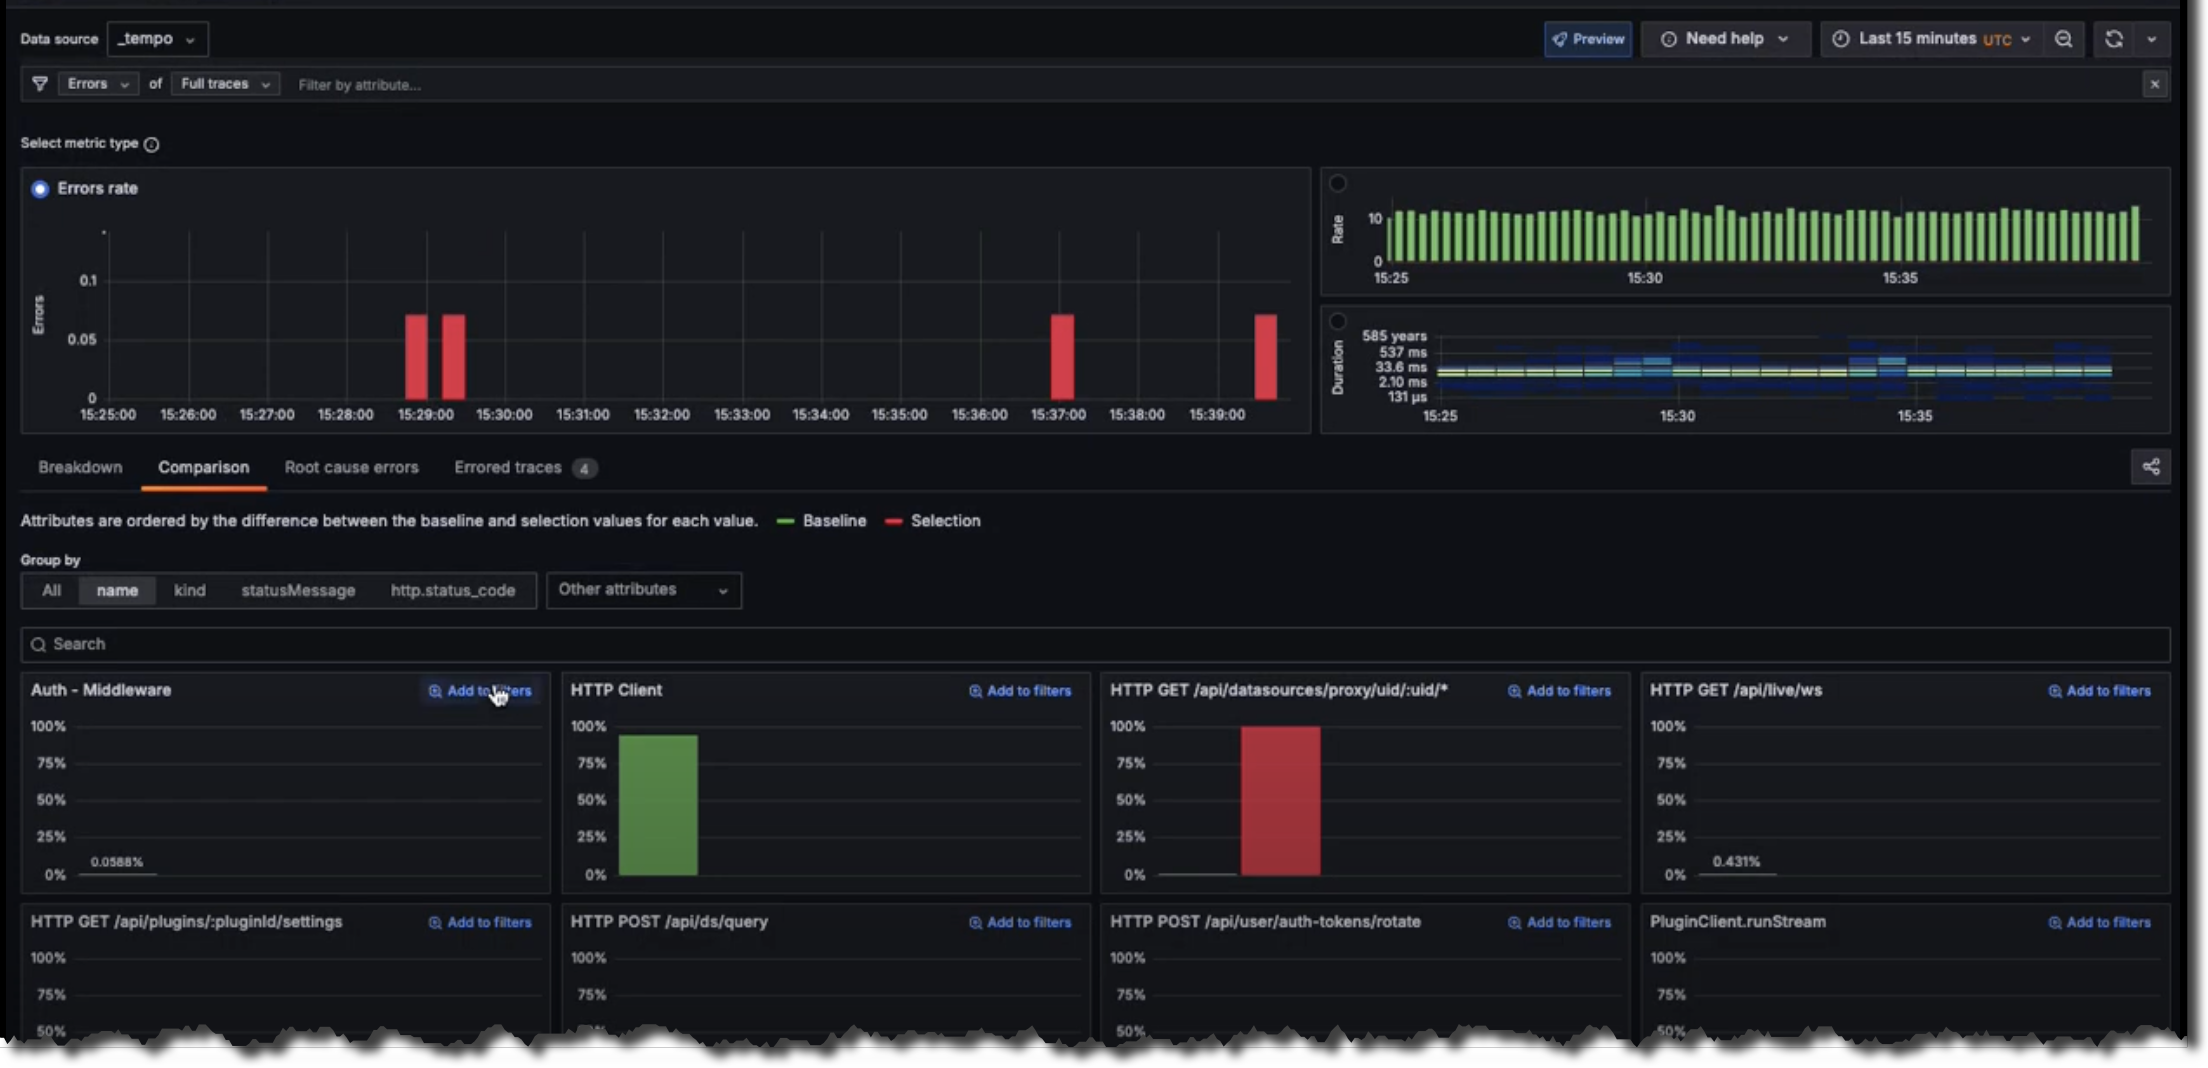
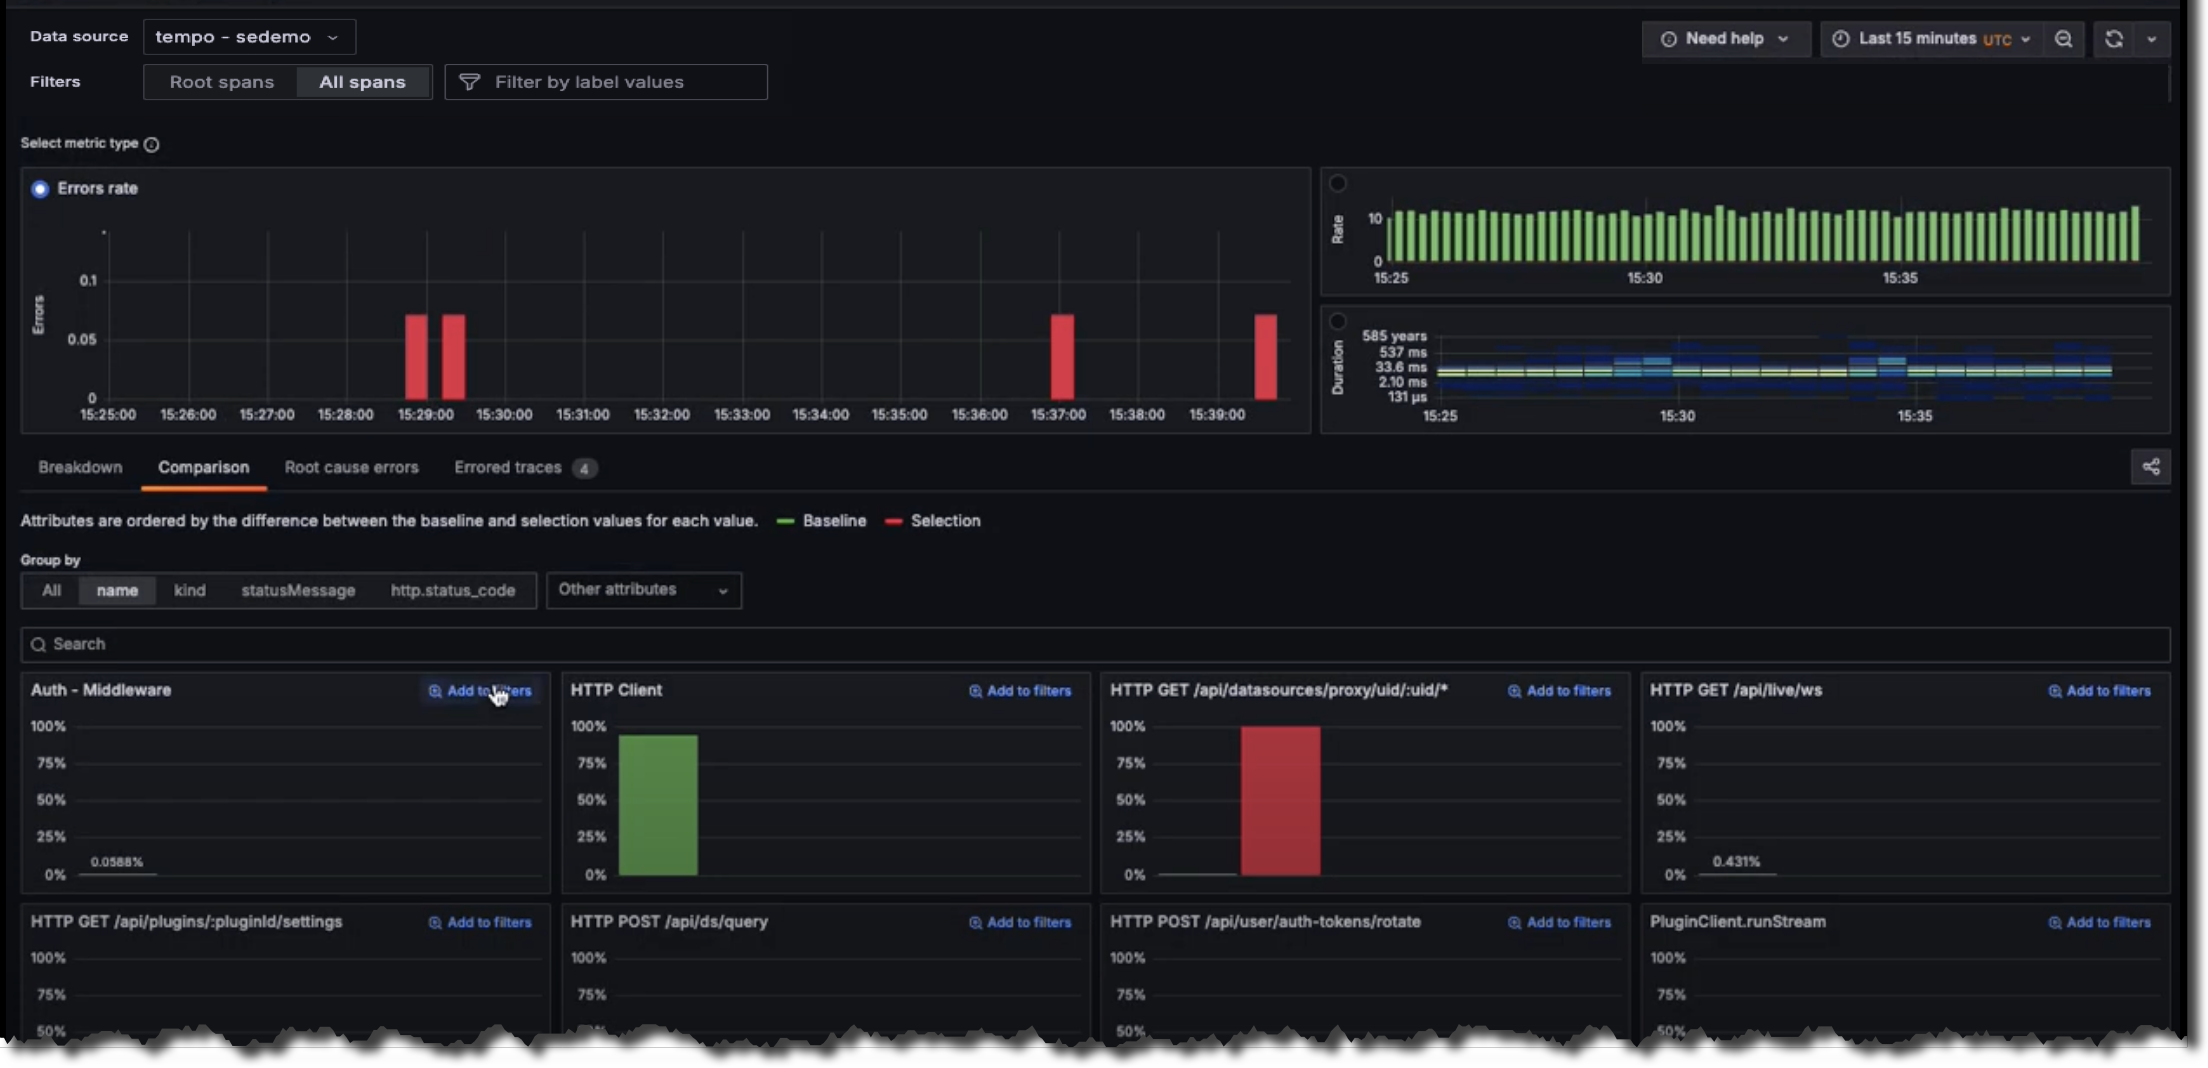
Update screenshots and UI elements

Changed region(s): [[0.0, 0.0309, 0.3125, 0.0927], [0.6875, 0.0, 0.75, 0.0618], [0.9688, 0.0618, 1.0, 0.0927]]

diff --git a/docs/sources/ui-reference/_index.md b/docs/sources/ui-reference/_index.md
@@ -1,0 +1,41 @@
+---
+description: Learn about the user interface for Traces Drilldown.
+canonical: https://grafana.com/docs/grafana/latest/explore/simplified-exploration/traces/investigate/
+keywords:
+  - Traces Drilldown
+  - UI reference
+title: Traces Drilldown UI reference
+menuTitle: UI reference
+weight: 600
+---
+
+# Traces Drilldown UI reference
+
+Grafana Traces Drilldown provides an easy to use interface that helps focus your tracing data exploration.
+Some of the screen sections are context sensitive and change depending upon the metric you've chosen.
+Refer to [Analyze tracing data](analyze-tracing-data) for more information.
+
+![Numbered sections of the Traces Drilldown app](/media/docs/explore-traces/traces-drilldown-screen-ui.png)
+
+1. **Data source selection**:
+   At the top left, you select the data source for your traces. In this example, the data source is set to `grafanacloud-traces`.
+
+1. **Filters**:
+   The filter bar helps you refine the data displayed.
+   You can select the type of trace data, either **Root spans** or **All spans**. You can also add specific label values to narrow the scope of your investigation.
+
+1. **Select metric type**:
+   Choose between **Rate**, **Errors**, or **Duration** metrics. In this example, the **Span rate** metric is selected, showing the number of spans per second.
+   - The **Span rate** graph (top left) shows the rate of spans over time.
+   - The **Errors** graph (top right) displays the error rate over time, with red bars indicating errors.
+   - The **Duration** heatmap (bottom right) visualizes the distribution of span durations and can help identify latency patterns.
+
+1. **Investigation-focused tabs**:
+   Each metric type has its own set of tabs that help you explore your tracing data. These tabs differ depending on the metric type you've selected.
+   For example, when you are using Span rate, then the Investigation type tabs show **Breakdown**, **Service structure**, **Comparison**, and **Traces**. The **Breakdown** tab organizes attributes by their correlation with the selected metric.
+
+1. **Add to filters**:
+   Each attribute group includes an **Add to filters** option, so you can add your selections into the current investigation.
+
+1. **Time range selector**:
+   At the top right, you can adjust the time range for the displayed data using the time picker. In this example, the time range is set to the last 30 minutes. Refer to [Set dashboard time range](https://grafana.com/docs/grafana/<GRAFANA_VERSION>/dashboards/use-dashboards/#set-dashboard-time-range) for more information.

diff --git a/docs/sources/get-started/_index.md b/docs/sources/get-started/_index.md
@@ -54,21 +54,21 @@ As an example, you want to uncover the source of errors in your spans.
 For this, you need to compare the errors in the traces to locate the problem trace.
 Here's how this works.
 
-### Choose a signal type and metric
+### Choose the level of data and a metric
 
-First, you select **Full traces** as the signal type, then choose the **Errors** metric.
-Use **Full traces** to gain insight into the errors in the root of your traces or at the edge of your application.
-If you're interested in any entrypoint to any service or **Database calls** (if you're concerned about databases), use the **Server spans** signal type.
+To identify the troublespot, you want to use raw tracing data instead of just the root span, which is the first span of every trace.
+Select **All spans** in the Filters, then choose the **Errors** metric.
+Use **All spans** to gain insight into the errors in the root of your traces or at the edge of your application.
 
-![Select the signal type and metric type](../images/explore-traces-select-signal-errors.gif)
+![Select All spans to view all raw span data and Errors as your metric](/media/docs/explore-traces/traces-drilldown-allspans-errors.png)
 
 ### Correlate attributes
 
-To correlate attribute values with errors, use the **Breakdown** tab.
+To correlate attribute values with errors, use the **Comparison** tab.
 This tab surfaces attributes values that heavily correlate with erroring spans.
 The results are ordered by the difference in those attributes by the highest ones first. This helps
 you see what's causing the errors immediately.
-You can see here that 99.34% of the time the span name was equal to `HTTP GET /api/datasources/proxy/uid/:uid/*` the span was also erroring.
+You can see here that 99.34% of the time, the span name was equal to `HTTP GET /api/datasources/proxy/uid/:uid/*` the span was also erroring.
 
 ![Errors are immediately visible by the large red bars](../images/explore-traces-errors-metric-flow.png)
 
@@ -82,7 +82,7 @@ Next, use **Add to filters** to focus just on the erroring API call.
 
 ### Use Root cause errors
 
-Select the **Root cause errors** tab for an aggregated view of all of the traces that have errors in them.
+Select **Root cause errors** for an aggregated view of all of the traces that have errors in them.
 To view additional details, right-click on a line and select **HTTP Outgoing Request**.
 
 ![Contextual menu available in the Root cause errors tab](../images/explore-traces-errors-rcause-menu.png)

diff --git a/docs/sources/investigate/analyze-tracing-data.md b/docs/sources/investigate/analyze-tracing-data.md
@@ -22,7 +22,7 @@ Each tab provides a brief explanation about the information provided.
 The **Comparison** tab highlights attributes that are correlated with the selected metric.
 
 The behavior of the comparison also differs depending upon the RED metric you've chosen.
-For example, if you're viewing **Error** metrics, the comparison shows the attribute values that correlate with errors.
+For example, if you're viewing **Errors** metrics, the comparison shows the attribute values that correlate with errors.
 However, if you're viewing **Duration** metrics, the comparison shows the attributes that correlate with high latency.
 
 ![Comparison view](/media/docs/explore-traces/explore-traces-rate-comparison-v2.4.png)
@@ -33,9 +33,9 @@ The structural tab lets you extract and view aggregate data from your traces.
 
 * Rate provides **Service structure**
 * Errors provides **Root cause errors**
-* Duration metrics provides **Root cause latency**
+* Duration (**spans** in the UI) metrics provides **Root cause latency**
 
-For **Rate**, the **Service structure** tab shows you how your applications "talk" to each other to fulfill requests.
+For **Rate**, the **Service structure** tab shows you how your applications talk to each other to fulfill requests.
 Use this tab to analyze the service structure of the traces that match the current filters.
 
 ![Service structure tab](/media/docs/explore-traces/explore-traces-rate-service-structure-v0.9.png)
@@ -56,7 +56,7 @@ Each RED metric has a trace list:
 
 * **Rate** provides a tab that lists **Traces**.
 * **Errors** provides a list of **Errored traces**.
-* **Duration** lists **Slow traces**.
+* **Duration** (**spans**) lists **Slow traces**.
 
 ![Example trace list for Duration showing slow traces](/media/docs/explore-traces/explore-traces-duration-slow-traces-v0.9.png)
 

diff --git a/docs/sources/investigate/choose-red-metric.md b/docs/sources/investigate/choose-red-metric.md
@@ -23,10 +23,12 @@ For example, selecting **Duration** displays **Root cause latency** and **Slow t
 Choosing **Errors** changes the tabs to **Root cause errors** and **Errored traces**. Rate provides **Service structure**, and **Traces** tabs.
 These tabs are used when you [analyze tracing data](#analyze-tracing-data).
 
+{{< video-embed src="/media/docs/explore-traces/traces-drilldown-select-metric-type.mp4" >}}
+
 To choose a RED metric:
 
-1. Select a graph to select a **Rate**, **Errors**, or **Duration** metric type. Notice that your selection changes the first drop-down list on the filter bar.
-1. Optional: Select the signal you want to observe. **Full traces** are the default selection.
+1. Select a graph to select a **Spans** (rate), **Errors**, or **Duration** metric type. Notice that your selection changes the first drop-down list on the filter bar.
+1. Optional: Select the signal you want to observe. **Root spans** is the default selection.
 1. Look for spikes or trends in the data to help identify issues.
 
 {{< admonition type="tip" >}}

diff --git a/docs/sources/investigate/choose-span-data.md b/docs/sources/investigate/choose-span-data.md
@@ -32,7 +32,13 @@ In tracing data, think of it as the trunk from which all subsequent spans in the
 
 Queries against root spans are faster because you're searching a subset of the tracing data.
 
+**Root spans** is the default selection.
+
+![The Errors metric view showing Root spans selected](/media/docs/explore-traces/traces-drilldown-errors-root-spans.png)
+
 ## All spans
 
 The **All spans** option lets you query all span data for all traces within the selected time period.
 Query times take longer they search the raw span data.
+
+![The Errors metric view showing All spans selected](/media/docs/explore-traces/traces-drilldown-errors-all-spans.png)
